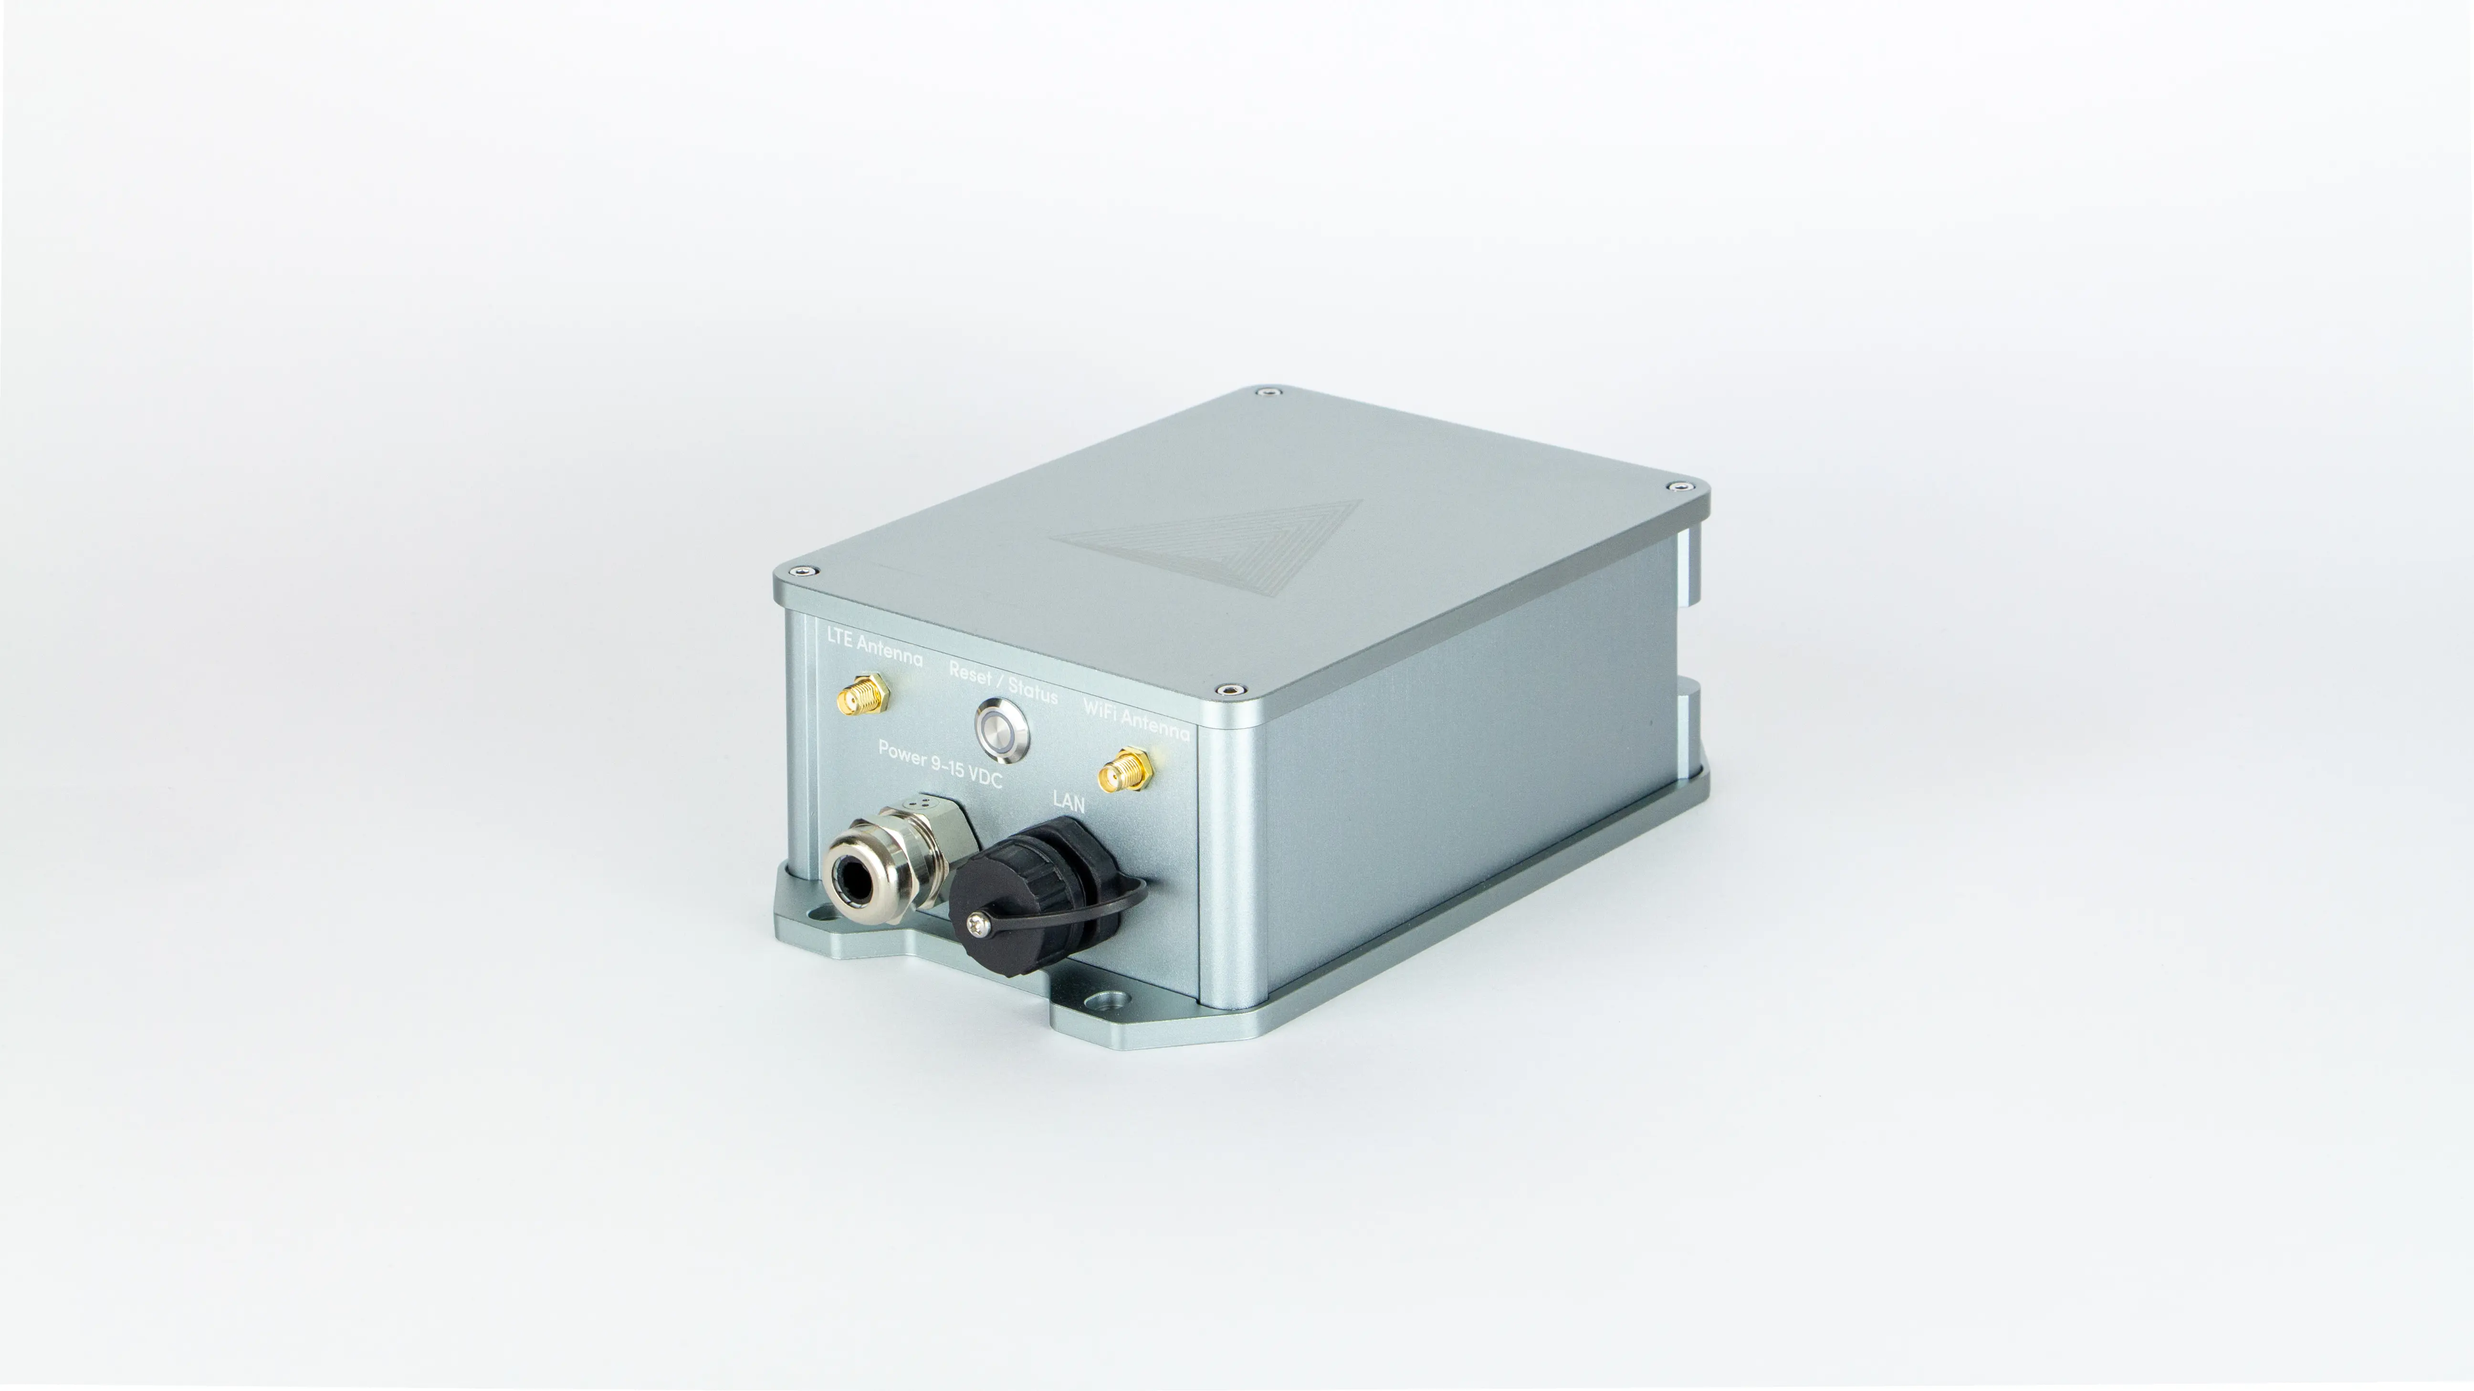
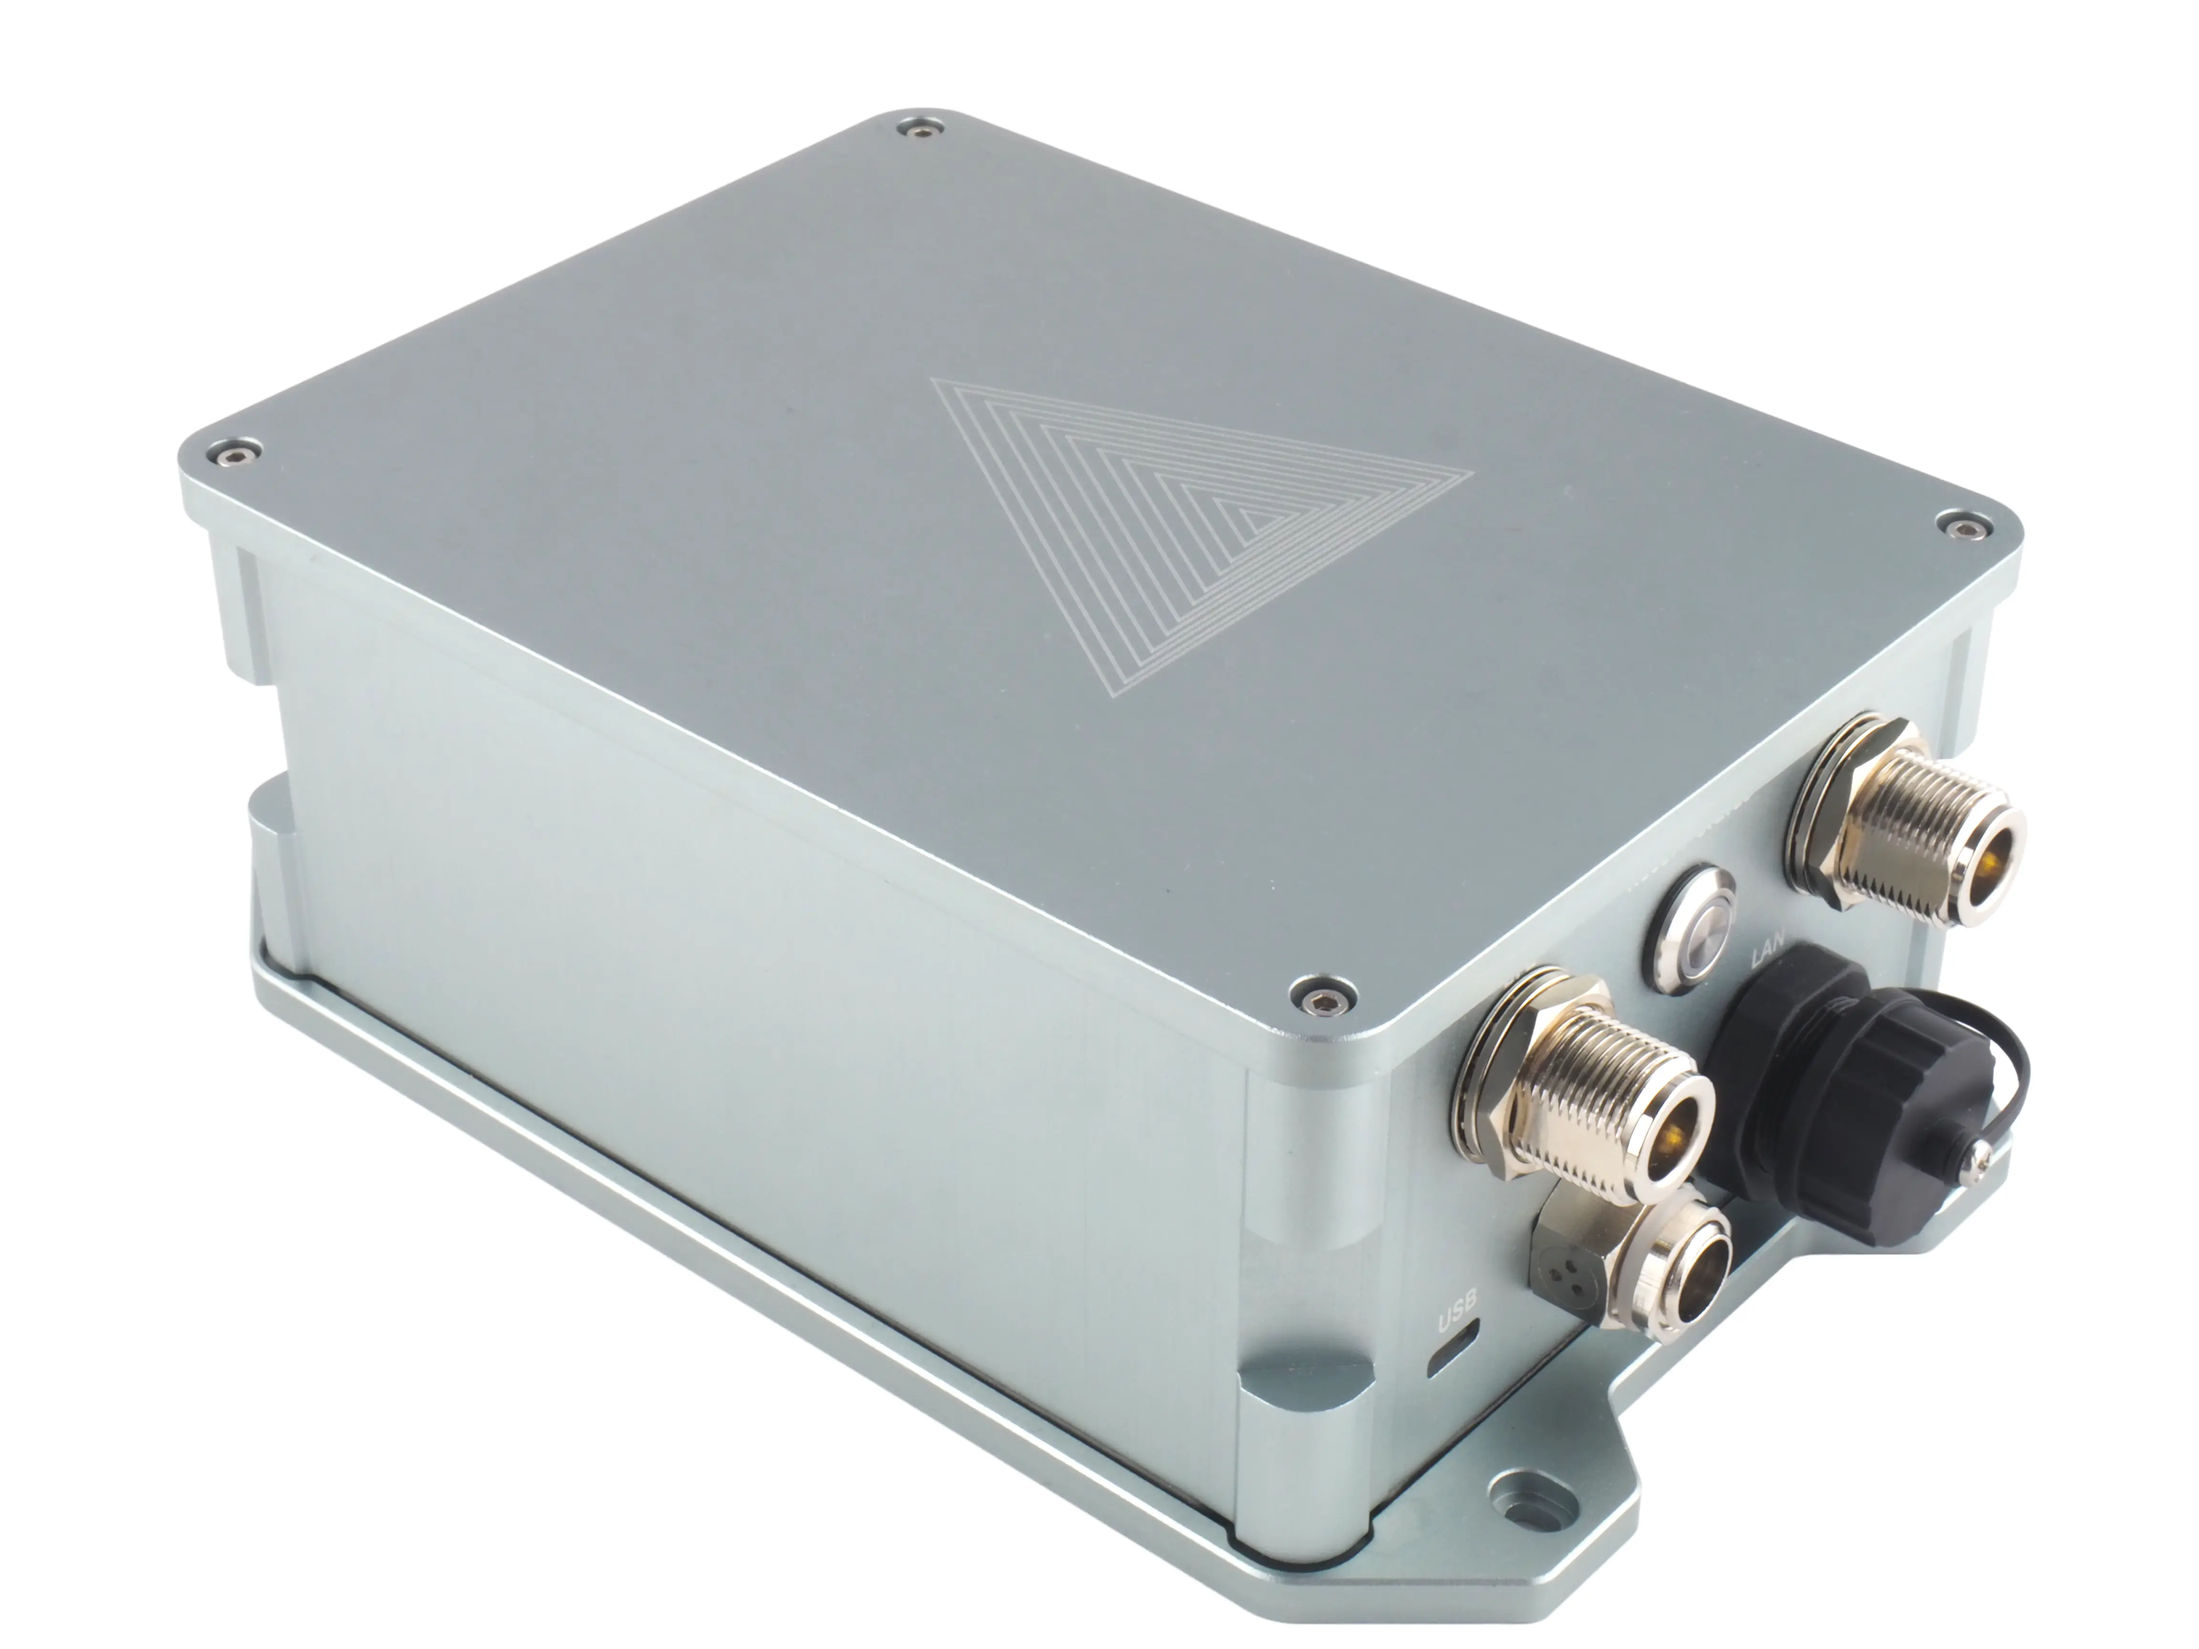
Case images update (#641)
* no message

* Updated images

diff --git a/tapdo-QuantumLink.md b/tapdo-QuantumLink.md
@@ -23,7 +23,7 @@ By opening up to the consumer market, we also want to open up new business areas
 | approximate price point                   | $700                                          |
 | expected production and delivery timeline | Q4/2022                                       |
 
-The QuantumLink is a Light Hotspot for outdoor use (IP65). Nevertheless, the stylish aluminum housing in light gray also makes the hotspot an eye-catcher indoors. At its core, the hotspot is based on the Raspberry Pi CM4 with at least 1 to 4GB RAM. 8 GB of flash memory are built-in. The hotspot is connected via LAN or Wifi. Via a mini PCIe slot an expansion with a 4G modem is also possible. These features make the Hotspot an ideal candidate for off-grid use. A Wi-Fi 6E card can also be installed as an alternative to the 4G modem. With this we hope to be able to support the Wifi subDAO (HIP-64) in the future.
+The QuantumLink is a Light Hotspot for outdoor use (IP65). Nevertheless, the stylish aluminum housing in light gray also makes the hotspot an eye-catcher indoors. At its core, the hotspot is based on the Raspberry Pi CM4 with at least 1 to 4 GB RAM. 8 GB of flash memory are built-in. The hotspot is connected via LAN or Wifi. Via a mini PCIe slot an expansion with a 4G modem is also possible. These features make the Hotspot an ideal candidate for off-grid use. A Wi-Fi 6E card can also be installed as an alternative to the 4G modem. With this we hope to be able to support the Wifi subDAO (HIP-64) in the future.
 The software is based on balena OS. We plan to offer a custom online dashboard that monitors the devices 24/7 and enables fleet operators to efficiently manage their fleet remotely and independently of the helium network.
 
 ## Previous shipments (required)
@@ -49,7 +49,6 @@ Even if the hotspot is once no longer supported by us, it should be easily repai
 
 
 ## Hardware Information (required) 
-![housing_front](tapdo-QuantumLink_front.webp)
 ![housing_top](tapdo-QuantumLink_top.webp)
 ![housing_bottom](tapdo-QuantumLink_bottom.webp)
 
